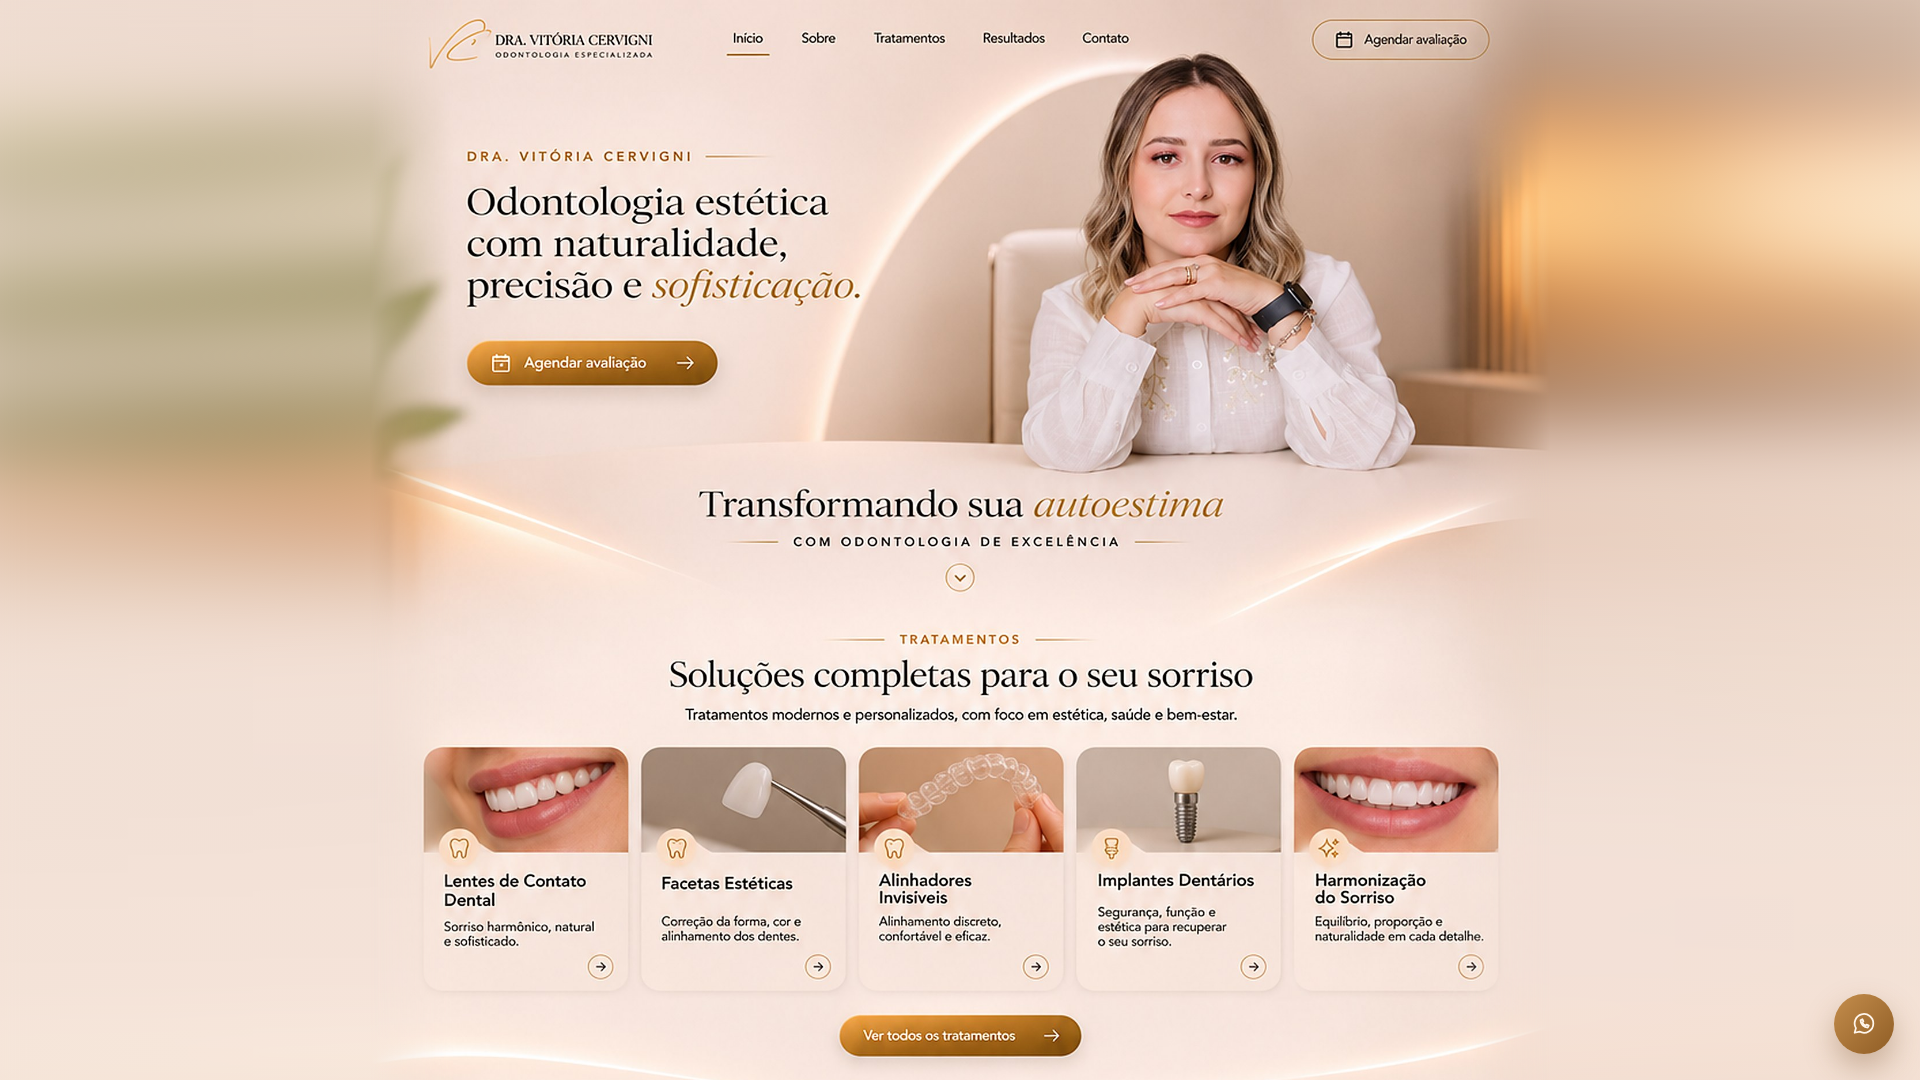
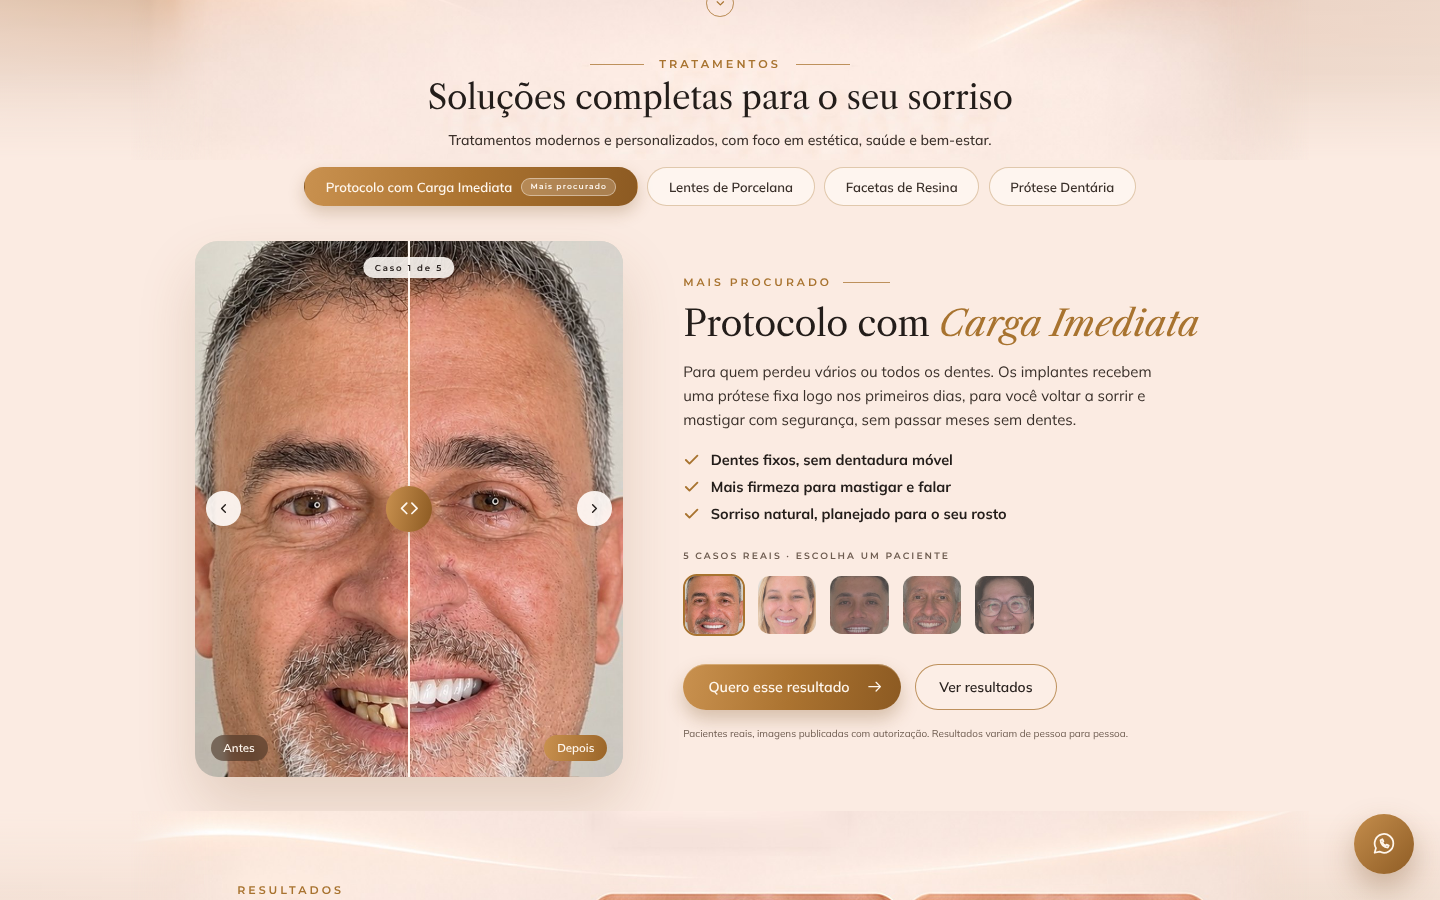
Replace treatment cards with coded section: tabs and before/after comparison for immediate-load protocol cases
Claude-Session: https://claude.ai/code/session_011M2KAfbiXzYiuKdHpfC1dX

diff --git a/site/index.html b/site/index.html
@@ -27,11 +27,6 @@
   a{color:inherit;text-decoration:none}
 
   .page{position:relative;width:100%;overflow:hidden;isolation:isolate}
-  .ext{position:absolute;top:0;bottom:0;width:50%;z-index:-2;background-size:100% 100%;background-repeat:no-repeat}
-  .ext.l{left:0;background-image:url('assets/edge-left.jpg')}
-  .ext.r{right:0;background-image:url('assets/edge-right.jpg')}
-  .ext-tint{position:absolute;inset:0;z-index:-1;
-    background:linear-gradient(90deg, rgba(243,227,215,.45), rgba(243,227,215,0) 25%, rgba(243,227,215,0) 75%, rgba(243,227,215,.45))}
 
   .art{position:relative;width:min(100%, var(--col));margin:0 auto;container-type:inline-size}
   .art > img{display:block;width:100%;height:auto;user-select:none;-webkit-user-drag:none}
@@ -146,24 +141,110 @@
   .wa:hover{transform:scale(1.06)}
   .wa svg{width:28px;height:28px;color:#fff6ec}
   @media (prefers-reduced-motion:reduce){html{scroll-behavior:auto}.btn,.card{transition:none}}
+
+  /* ---------- Faixas (arte de cima / seção de tratamentos / arte de baixo) ---------- */
+  :root{--mid:#fbebe2;--mid-side:#f2ddd1}
+  .band{position:relative;width:100%;isolation:isolate;overflow:hidden}
+  .band .ext{position:absolute;top:0;bottom:0;width:50%;z-index:-2;background-size:100% 100%;background-repeat:no-repeat}
+  .band-top .ext.l{left:0;background-image:url('assets/edge-left-top.jpg')}
+  .band-top .ext.r{right:0;background-image:url('assets/edge-right-top.jpg')}
+  .band-bot .ext.l{left:0;background-image:url('assets/edge-left-bottom.jpg')}
+  .band-bot .ext.r{right:0;background-image:url('assets/edge-right-bottom.jpg')}
+  .band .ext-tint{position:absolute;inset:0;z-index:-1;
+    background:linear-gradient(90deg, rgba(243,227,215,.45), rgba(243,227,215,0) 25%, rgba(243,227,215,0) 75%, rgba(243,227,215,.45))}
+  .mid-bg{background:var(--mid)}
+  /* emendas suaves entre as faixas */
+  .band-top::after,.band-bot::before{content:"";position:absolute;left:0;right:0;height:min(4vw,48px);z-index:3;pointer-events:none}
+  .band-top::after{bottom:0;background:var(--mid);-webkit-mask-image:linear-gradient(to bottom,transparent,#000);mask-image:linear-gradient(to bottom,transparent,#000)}
+  .band-bot::before{top:0;background:var(--mid);-webkit-mask-image:linear-gradient(to top,transparent,#000);mask-image:linear-gradient(to top,transparent,#000)}
+  .band .art{position:relative;z-index:4}
+  .band-top .art::before,.band-bot .art::before{content:"";position:absolute;left:0;right:0;height:4%;pointer-events:none}
+  .band-top .art::before{bottom:-1px;background:linear-gradient(to bottom,rgba(251,235,226,0),var(--mid))}
+  .band-bot .art::before{top:-1px;background:linear-gradient(to top,rgba(251,235,226,0),var(--mid))}
+  @media (min-width:1181px){
+    .band .art::before{-webkit-mask-image:linear-gradient(90deg,transparent 0,#000 7%,#000 93%,transparent 100%);mask-image:linear-gradient(90deg,transparent 0,#000 7%,#000 93%,transparent 100%)}
+  }
+  .band-top::after,.band-bot::before{height:min(7vw,90px)}
+  .shift{position:absolute;left:0;right:0;top:calc(-895*var(--u));height:calc(1536*var(--u))}
+
+  /* ---------- Seção de tratamentos ---------- */
+  .band-mid{position:relative;margin-block:-1px;z-index:1}
+  .mid{--u:calc(100cqw / 1024);position:relative;padding:calc(6*var(--u)) calc(56*var(--u)) calc(30*var(--u))}
+
+  .tabs{display:flex;justify-content:center;gap:calc(8*var(--u));flex-wrap:wrap}
+  .tab{font:inherit;font-family:var(--sans);font-weight:600;font-size:calc(11.4*var(--u));color:var(--ink-2);cursor:pointer;
+    height:calc(34*var(--u));padding:0 calc(18*var(--u));border-radius:999px;border:calc(1*var(--u)) solid rgba(168,115,47,.35);
+    background:rgba(255,250,246,.65);display:inline-flex;align-items:center;gap:calc(8*var(--u));transition:background .25s,color .25s,border-color .25s}
+  .tab:hover{border-color:var(--gold);color:var(--ink)}
+  .tab[aria-selected="true"]{color:#fff7ee;border-color:transparent;background:linear-gradient(100deg,#c9914f 0%,#ab7330 50%,#8c5a22 100%);
+    box-shadow:0 calc(6*var(--u)) calc(14*var(--u)) rgba(122,78,30,.25)}
+  .tab .star{font-family:var(--caps);font-size:calc(6.6*var(--u));letter-spacing:calc(1*var(--u));padding:calc(3*var(--u)) calc(7*var(--u));border-radius:999px;background:rgba(255,247,238,.22);border:1px solid rgba(255,247,238,.45)}
+  .tab:not([aria-selected="true"]) .star{background:rgba(168,115,47,.1);border-color:rgba(168,115,47,.3);color:var(--gold)}
+
+  .panel{display:grid;grid-template-columns:calc(372*var(--u)) 1fr;gap:calc(52*var(--u));align-items:center;margin-top:calc(30*var(--u))}
+  .panel[hidden]{display:none}
+
+  /* Antes e depois */
+  .compare{position:relative;width:100%;aspect-ratio:4/5;border-radius:calc(20*var(--u));overflow:hidden;background:#eadbd0;
+    box-shadow:0 calc(26*var(--u)) calc(50*var(--u)) rgba(120,80,40,.18);user-select:none;touch-action:pan-y}
+  .compare .layer{position:absolute;inset:0}
+  .compare img{width:100%;height:100%;object-fit:cover;display:block;pointer-events:none}
+  .compare .after{clip-path:inset(0 0 0 50%)}
+  .compare .handle{position:absolute;top:0;bottom:0;left:50%;width:2px;margin-left:-1px;background:#fff8f1;box-shadow:0 0 12px rgba(232,170,96,.85);z-index:3;pointer-events:none}
+  .compare .handle span{position:absolute;top:50%;left:50%;width:calc(40*var(--u));height:calc(40*var(--u));transform:translate(-50%,-50%);border-radius:50%;
+    background:linear-gradient(100deg,#c9914f,#8c5a22);display:grid;place-items:center;box-shadow:0 4px 14px rgba(120,80,40,.35)}
+  .compare .handle svg{width:calc(18*var(--u));height:calc(18*var(--u));color:#fff7ee}
+  .compare input{position:absolute;inset:0;width:100%;height:100%;opacity:0;cursor:ew-resize;z-index:4;margin:0}
+  .compare .lbl{position:absolute;bottom:calc(14*var(--u));height:calc(22*var(--u));padding:0 calc(11*var(--u));border-radius:999px;display:grid;place-items:center;
+    font-size:calc(10*var(--u));font-weight:600;color:#fff7ee;z-index:2;pointer-events:none}
+  .compare .lbl.l{left:calc(14*var(--u));background:rgba(70,48,34,.6);backdrop-filter:blur(3px)}
+  .compare .lbl.r{right:calc(14*var(--u));background:linear-gradient(100deg,#c9914f,#9a6528)}
+  .compare .count{position:absolute;top:calc(14*var(--u));left:50%;transform:translateX(-50%);z-index:5;pointer-events:none;
+    font-family:var(--caps);font-weight:600;font-size:calc(7.5*var(--u));letter-spacing:calc(1.6*var(--u));color:#2a2320;background:rgba(255,250,246,.88);
+    padding:calc(5*var(--u)) calc(10*var(--u));border-radius:999px}
+  .compare .nav-btn{position:absolute;top:50%;z-index:5;width:calc(30*var(--u));height:calc(30*var(--u));margin-top:calc(-15*var(--u));border-radius:50%;border:0;cursor:pointer;
+    background:rgba(255,250,246,.92);display:grid;place-items:center;color:var(--ink);box-shadow:0 3px 10px rgba(120,80,40,.2)}
+  .compare .nav-btn svg{width:calc(13*var(--u));height:calc(13*var(--u))}
+  .compare .prev{left:calc(10*var(--u))}.compare .next{right:calc(10*var(--u))}
+  .soon{position:absolute;inset:0;display:flex;flex-direction:column;align-items:center;justify-content:center;gap:calc(8*var(--u));text-align:center;
+    background:linear-gradient(140deg,#f6e7dc,#ead6c7);font-family:var(--caps);font-weight:600;font-size:calc(8.5*var(--u));letter-spacing:calc(2*var(--u));color:var(--muted,#6e5c50)}
+  .soon svg{width:calc(30*var(--u));height:calc(30*var(--u));color:var(--gold)}
+
+  /* Texto do tratamento */
+  .info .kick{display:inline-flex;align-items:center;gap:calc(10*var(--u));font-family:var(--caps);font-weight:600;font-size:calc(9.4*var(--u));letter-spacing:calc(2.6*var(--u));color:var(--gold);text-transform:uppercase}
+  .info .kick::after{content:"";width:calc(40*var(--u));height:1px;background:var(--gold);opacity:.75}
+  .info h3{font-family:var(--serif);font-weight:400;font-size:calc(31*var(--u));line-height:1.15;color:var(--ink);margin-top:calc(12*var(--u));letter-spacing:-.01em}
+  .info h3 em{font-style:italic;color:var(--gold)}
+  .info > p{font-size:calc(13*var(--u));line-height:1.6;color:var(--ink-2);margin-top:calc(14*var(--u));max-width:calc(420*var(--u))}
+  .info ul{list-style:none;margin-top:calc(16*var(--u));display:flex;flex-direction:column;gap:calc(7*var(--u))}
+  .info li{display:flex;align-items:center;gap:calc(9*var(--u));font-weight:700;font-size:calc(12.6*var(--u));color:var(--ink)}
+  .info li svg{width:calc(15*var(--u));height:calc(15*var(--u));color:var(--gold);flex:none}
+  .info .thumbs-label{margin-top:calc(22*var(--u));font-family:var(--caps);font-weight:600;font-size:calc(8*var(--u));letter-spacing:calc(1.8*var(--u));color:var(--muted,#6e5c50);text-transform:uppercase}
+  .thumbs{display:flex;gap:calc(9*var(--u));margin-top:calc(9*var(--u))}
+  .thumb{width:calc(54*var(--u));height:calc(54*var(--u));border-radius:calc(12*var(--u));overflow:hidden;padding:0;border:calc(2*var(--u)) solid transparent;cursor:pointer;
+    background:none;opacity:.7;transition:opacity .2s,border-color .2s,transform .2s}
+  .thumb img{width:100%;height:100%;object-fit:cover;object-position:50% 70%;display:block}
+  .thumb:hover{opacity:1;transform:translateY(-2px)}
+  .thumb[aria-current="true"]{opacity:1;border-color:var(--gold)}
+  .actions{display:flex;gap:calc(12*var(--u));margin-top:calc(24*var(--u))}
+  .actions .btn{position:relative}
+  .act-main{height:calc(40*var(--u));padding:0 calc(16*var(--u)) 0 calc(22*var(--u));gap:calc(14*var(--u));font-size:calc(12.4*var(--u));font-weight:600}
+  .act-main svg,.act-alt svg{width:calc(15*var(--u));height:calc(15*var(--u))}
+  .act-alt{height:calc(40*var(--u));padding:0 calc(20*var(--u));gap:calc(10*var(--u));font-size:calc(12*var(--u));font-weight:600}
+  .info .note-cfo{margin-top:calc(14*var(--u));font-size:calc(8.6*var(--u));color:var(--muted,#6e5c50)}
 </style>
 </head>
 <body>
 <div class="page">
-  <div class="ext l" aria-hidden="true"></div>
-  <div class="ext r" aria-hidden="true"></div>
-  <div class="ext-tint" aria-hidden="true"></div>
-
-  <div class="art">
-    <img src="assets/home-base.jpg" width="2048" height="3072" alt="">
-
-    <div class="ov">
-      <span class="anchor" id="inicio" style="top:0"></span>
-      <span class="anchor" id="tratamentos" style="top:34.6%"></span>
-      <span class="anchor" id="resultados" style="top:61.5%"></span>
-      <span class="anchor" id="sobre" style="top:76.6%"></span>
-
-      <!-- Cabeçalho -->
+  <!-- ================= ARTE DE CIMA ================= -->
+  <section class="band band-top mid-bg-fade">
+    <div class="ext l" aria-hidden="true"></div>
+    <div class="ext r" aria-hidden="true"></div>
+    <div class="ext-tint" aria-hidden="true"></div>
+    <div class="art">
+      <img src="assets/home-top.jpg" width="2048" height="1276" alt="">
+      <div class="ov">
+        <span class="anchor" id="inicio" style="top:0"></span>
       <header>
         <a href="#inicio" class="t logo" aria-label="Dra. Vitória Cervigni, início">
           <img src="assets/monograma-vc.png" alt="">
@@ -201,36 +282,31 @@
         <h2 class="t serif center trat-title">Soluções completas para o seu sorriso</h2>
         <p class="t center trat-sub">Tratamentos modernos e personalizados, com foco em estética, saúde e bem-estar.</p>
 
-        <a href="#" class="card" style="left:calc(47*var(--u))" data-trat="protocolo dentário com carga imediata">
-          <span class="badge">Mais procurado</span>
-          <h3>Protocolo com<br>Carga Imediata</h3>
-          <p>Dentes fixos sobre implantes<br>sem esperar meses.</p>
-          <span class="go"><svg viewBox="0 0 24 24" fill="none" stroke="currentColor" stroke-width="2.2" stroke-linecap="round" stroke-linejoin="round"><path d="M5 12h14M13 6l6 6-6 6"/></svg></span>
-        </a>
-        <a href="#" class="card" style="left:calc(236*var(--u))" data-trat="lentes de porcelana">
-          <h3 class="one">Lentes de Porcelana</h3>
-          <p>Cor, forma e brilho natural<br>com lâminas ultrafinas.</p>
-          <span class="go"><svg viewBox="0 0 24 24" fill="none" stroke="currentColor" stroke-width="2.2" stroke-linecap="round" stroke-linejoin="round"><path d="M5 12h14M13 6l6 6-6 6"/></svg></span>
-        </a>
-        <a href="#" class="card" style="left:calc(425*var(--u))" data-trat="uma avaliação personalizada">
-          <h3>Avaliação<br>Personalizada</h3>
-          <p>Planejamento completo do<br>seu sorriso, do início ao fim.</p>
-          <span class="go"><svg viewBox="0 0 24 24" fill="none" stroke="currentColor" stroke-width="2.2" stroke-linecap="round" stroke-linejoin="round"><path d="M5 12h14M13 6l6 6-6 6"/></svg></span>
-        </a>
-        <a href="#" class="card" style="left:calc(614*var(--u))" data-trat="prótese dentária">
-          <h3 class="one">Prótese Dentária</h3>
-          <p>Reposição dos dentes com<br>conforto, função e estética.</p>
-          <span class="go"><svg viewBox="0 0 24 24" fill="none" stroke="currentColor" stroke-width="2.2" stroke-linecap="round" stroke-linejoin="round"><path d="M5 12h14M13 6l6 6-6 6"/></svg></span>
-        </a>
-        <a href="#" class="card" style="left:calc(803*var(--u))" data-trat="facetas de resina">
-          <h3 class="one">Facetas de Resina</h3>
-          <p>Estética rápida, natural e<br>com ótimo custo-benefício.</p>
-          <span class="go"><svg viewBox="0 0 24 24" fill="none" stroke="currentColor" stroke-width="2.2" stroke-linecap="round" stroke-linejoin="round"><path d="M5 12h14M13 6l6 6-6 6"/></svg></span>
-        </a>
+      </main>
+      </div>
+    </div>
+  </section>
 
-        <a href="#" data-wa class="btn btn-gold all-cta">Ver todos os tratamentos
-          <svg viewBox="0 0 24 24" fill="none" stroke="currentColor" stroke-width="1.6" stroke-linecap="round" stroke-linejoin="round"><path d="M4 12h16M14 6l6 6-6 6"/></svg></a>
+  <!-- ================= TRATAMENTOS (código) ================= -->
+  <section class="band band-mid mid-bg" id="tratamentos" aria-label="Tratamentos">
+    <div class="art">
+      <div class="mid">
+        <div class="tabs" role="tablist" aria-label="Tratamentos" id="tabs"></div>
+        <div id="panels"></div>
+      </div>
+    </div>
+  </section>
 
+  <!-- ================= ARTE DE BAIXO ================= -->
+  <section class="band band-bot">
+    <div class="ext l" aria-hidden="true"></div>
+    <div class="ext r" aria-hidden="true"></div>
+    <div class="ext-tint" aria-hidden="true"></div>
+    <div class="art">
+      <img src="assets/home-bottom.jpg" width="2048" height="1282" alt="">
+      <div class="ov"><div class="shift">
+        <span class="anchor" id="resultados" style="top:calc(945*var(--u))"></span>
+        <span class="anchor" id="sobre" style="top:calc(1180*var(--u))"></span>
         <!-- Resultados -->
         <p class="t caps res-eyebrow">Resultados</p>
         <h2 class="t serif res-title">Sorrisos reais,<br>transformações <em>reais</em></h2>
@@ -253,9 +329,9 @@
         </ul>
         <a href="#" data-wa class="btn btn-line about-cta">Conheça minha trajetória
           <svg viewBox="0 0 24 24" fill="none" stroke="currentColor" stroke-width="1.6" stroke-linecap="round" stroke-linejoin="round"><path d="M4 12h16M14 6l6 6-6 6"/></svg></a>
-      </main>
+      </div></div>
     </div>
-  </div>
+  </section>
 </div>
 
 <a class="wa" data-wa href="#" aria-label="Falar no WhatsApp">
@@ -263,6 +339,128 @@
 </a>
 
 <script>
+
+/* ===== Tratamentos: edite textos e casos aqui ===== */
+const TRATAMENTOS = [
+  {
+    id: 'protocolo', aba: 'Protocolo com Carga Imediata', destaque: 'Mais procurado',
+    kicker: 'Mais procurado', titulo: 'Protocolo com <em>Carga Imediata</em>',
+    texto: 'Para quem perdeu vários ou todos os dentes. Os implantes recebem uma prótese fixa logo nos primeiros dias, para você voltar a sorrir e mastigar com segurança, sem passar meses sem dentes.',
+    itens: ['Dentes fixos, sem dentadura móvel', 'Mais firmeza para mastigar e falar', 'Sorriso natural, planejado para o seu rosto'],
+    casos: [1, 2, 3, 4, 5].map(n => ({ antes: 'assets/casos/caso' + n + '-antes.jpg', depois: 'assets/casos/caso' + n + '-depois.jpg' }))
+  },
+  {
+    id: 'lentes', aba: 'Lentes de Porcelana',
+    kicker: 'Estética', titulo: 'Lentes de <em>Porcelana</em>',
+    texto: 'Lâminas ultrafinas de porcelana que corrigem cor, formato e pequenos desalinhamentos, com brilho e translucidez de dente natural.',
+    itens: ['Cor estável ao longo dos anos', 'Desgaste mínimo do dente', 'Resultado natural e sofisticado'],
+    casos: []
+  },
+  {
+    id: 'facetas', aba: 'Facetas de Resina',
+    kicker: 'Estética', titulo: 'Facetas de <em>Resina</em>',
+    texto: 'Transformação estética em poucas sessões, com resinas de alta performance e acabamento natural.',
+    itens: ['Resultado rápido', 'Ótimo custo-benefício', 'Ajustes simples quando preciso'],
+    casos: []
+  },
+  {
+    id: 'protese', aba: 'Prótese Dentária',
+    kicker: 'Reabilitação', titulo: 'Prótese <em>Dentária</em>',
+    texto: 'Coroas, pontes e próteses que devolvem a mastigação, o conforto e a confiança para sorrir.',
+    itens: ['Função e estética juntas', 'Conforto no dia a dia', 'Planejamento individual'],
+    casos: []
+  }
+];
+
+const ico = {
+  check: '<svg viewBox="0 0 24 24" fill="none" stroke="currentColor" stroke-width="2.6" stroke-linecap="round" stroke-linejoin="round"><path d="M4 12.5l5 5L20 6.5"/></svg>',
+  arrow: '<svg viewBox="0 0 24 24" fill="none" stroke="currentColor" stroke-width="1.8" stroke-linecap="round" stroke-linejoin="round"><path d="M4 12h16M14 6l6 6-6 6"/></svg>',
+  lr: '<svg viewBox="0 0 24 24" fill="none" stroke="currentColor" stroke-width="2" stroke-linecap="round" stroke-linejoin="round"><path d="M9 6l-6 6 6 6M15 6l6 6-6 6"/></svg>',
+  prev: '<svg viewBox="0 0 24 24" fill="none" stroke="currentColor" stroke-width="2.2" stroke-linecap="round" stroke-linejoin="round"><path d="M15 6l-6 6 6 6"/></svg>',
+  next: '<svg viewBox="0 0 24 24" fill="none" stroke="currentColor" stroke-width="2.2" stroke-linecap="round" stroke-linejoin="round"><path d="M9 6l6 6-6 6"/></svg>',
+  cam: '<svg viewBox="0 0 24 24" fill="none" stroke="currentColor" stroke-width="1.3" stroke-linecap="round" stroke-linejoin="round"><path d="M4 8h3l1.5-2h7L17 8h3v11H4z"/><circle cx="12" cy="13" r="3.5"/></svg>'
+};
+
+const tabsEl = document.getElementById('tabs'), panelsEl = document.getElementById('panels');
+
+TRATAMENTOS.forEach((t, ti) => {
+  const tab = document.createElement('button');
+  tab.className = 'tab'; tab.type = 'button'; tab.role = 'tab';
+  tab.id = 'tab-' + t.id; tab.setAttribute('aria-controls', 'panel-' + t.id);
+  tab.setAttribute('aria-selected', ti === 0 ? 'true' : 'false');
+  tab.innerHTML = t.aba + (t.destaque ? ' <span class="star">' + t.destaque + '</span>' : '');
+  tabsEl.appendChild(tab);
+
+  const p = document.createElement('div');
+  p.className = 'panel'; p.id = 'panel-' + t.id; p.role = 'tabpanel';
+  p.setAttribute('aria-labelledby', tab.id); p.hidden = ti !== 0;
+
+  const temCasos = t.casos.length > 0;
+  p.innerHTML =
+    '<div class="compare">' +
+      (temCasos
+        ? '<div class="layer before"><img alt="Antes do tratamento"></div>' +
+          '<div class="layer after"><img alt="Depois do tratamento"></div>' +
+          '<span class="count"></span>' +
+          '<span class="lbl l">Antes</span><span class="lbl r">Depois</span>' +
+          '<div class="handle"><span>' + ico.lr + '</span></div>' +
+          '<input type="range" min="0" max="100" value="50" id="cmp-' + t.id + '" aria-label="Comparar antes e depois">' +
+          (t.casos.length > 1 ? '<button class="nav-btn prev" type="button" aria-label="Caso anterior">' + ico.prev + '</button>' +
+                                '<button class="nav-btn next" type="button" aria-label="Próximo caso">' + ico.next + '</button>' : '')
+        : '<div class="soon">' + ico.cam + 'Casos em breve</div>') +
+    '</div>' +
+    '<div class="info">' +
+      '<span class="kick">' + t.kicker + '</span>' +
+      '<h3>' + t.titulo + '</h3>' +
+      '<p>' + t.texto + '</p>' +
+      '<ul>' + t.itens.map(i => '<li>' + ico.check + i + '</li>').join('') + '</ul>' +
+      (temCasos ? '<p class="thumbs-label">' + t.casos.length + ' casos reais · escolha um paciente</p><div class="thumbs"></div>' : '') +
+      '<div class="actions">' +
+        '<a href="#" class="btn btn-gold act-main" data-trat="' + t.aba.toLowerCase() + '">Quero esse resultado ' + ico.arrow + '</a>' +
+        '<a href="#resultados" class="btn btn-line act-alt">Ver resultados</a>' +
+      '</div>' +
+      (temCasos ? '<p class="note-cfo">Pacientes reais, imagens publicadas com autorização. Resultados variam de pessoa para pessoa.</p>' : '') +
+    '</div>';
+  panelsEl.appendChild(p);
+
+  if (!temCasos) return;
+  const before = p.querySelector('.before img'), after = p.querySelector('.after img');
+  const afterLayer = p.querySelector('.after'), handle = p.querySelector('.handle'), range = p.querySelector('input');
+  const count = p.querySelector('.count'), thumbs = p.querySelector('.thumbs');
+  let atual = 0;
+  const setPos = v => { afterLayer.style.clipPath = 'inset(0 0 0 ' + v + '%)'; handle.style.left = v + '%'; };
+  const show = i => {
+    atual = (i + t.casos.length) % t.casos.length;
+    before.src = t.casos[atual].antes; after.src = t.casos[atual].depois;
+    count.textContent = 'Caso ' + (atual + 1) + ' de ' + t.casos.length;
+    thumbs.querySelectorAll('.thumb').forEach((b, k) => b.setAttribute('aria-current', k === atual ? 'true' : 'false'));
+    range.value = 50; setPos(50);
+  };
+  t.casos.forEach((c, k) => {
+    const b = document.createElement('button');
+    b.className = 'thumb'; b.type = 'button'; b.setAttribute('aria-label', 'Ver caso ' + (k + 1));
+    b.innerHTML = '<img src="' + c.depois + '" alt="" loading="lazy">';
+    b.addEventListener('click', () => show(k));
+    thumbs.appendChild(b);
+  });
+  range.addEventListener('input', e => setPos(e.target.value));
+  p.querySelector('.prev')?.addEventListener('click', () => show(atual - 1));
+  p.querySelector('.next')?.addEventListener('click', () => show(atual + 1));
+  show(0);
+});
+
+tabsEl.addEventListener('click', e => {
+  const tab = e.target.closest('.tab'); if (!tab) return;
+  tabsEl.querySelectorAll('.tab').forEach(b => b.setAttribute('aria-selected', b === tab ? 'true' : 'false'));
+  panelsEl.querySelectorAll('.panel').forEach(p => p.hidden = p.id !== tab.getAttribute('aria-controls'));
+});
+tabsEl.addEventListener('keydown', e => {
+  if (e.key !== 'ArrowRight' && e.key !== 'ArrowLeft') return;
+  const tabs = [...tabsEl.querySelectorAll('.tab')], i = tabs.indexOf(document.activeElement);
+  const n = tabs[(i + (e.key === 'ArrowRight' ? 1 : -1) + tabs.length) % tabs.length];
+  n.focus(); n.click();
+});
+
 /* ===== Edite aqui ===== */
 const CONFIG = {
   whatsapp: '5500000000000'   // DDI + DDD + número, só dígitos
